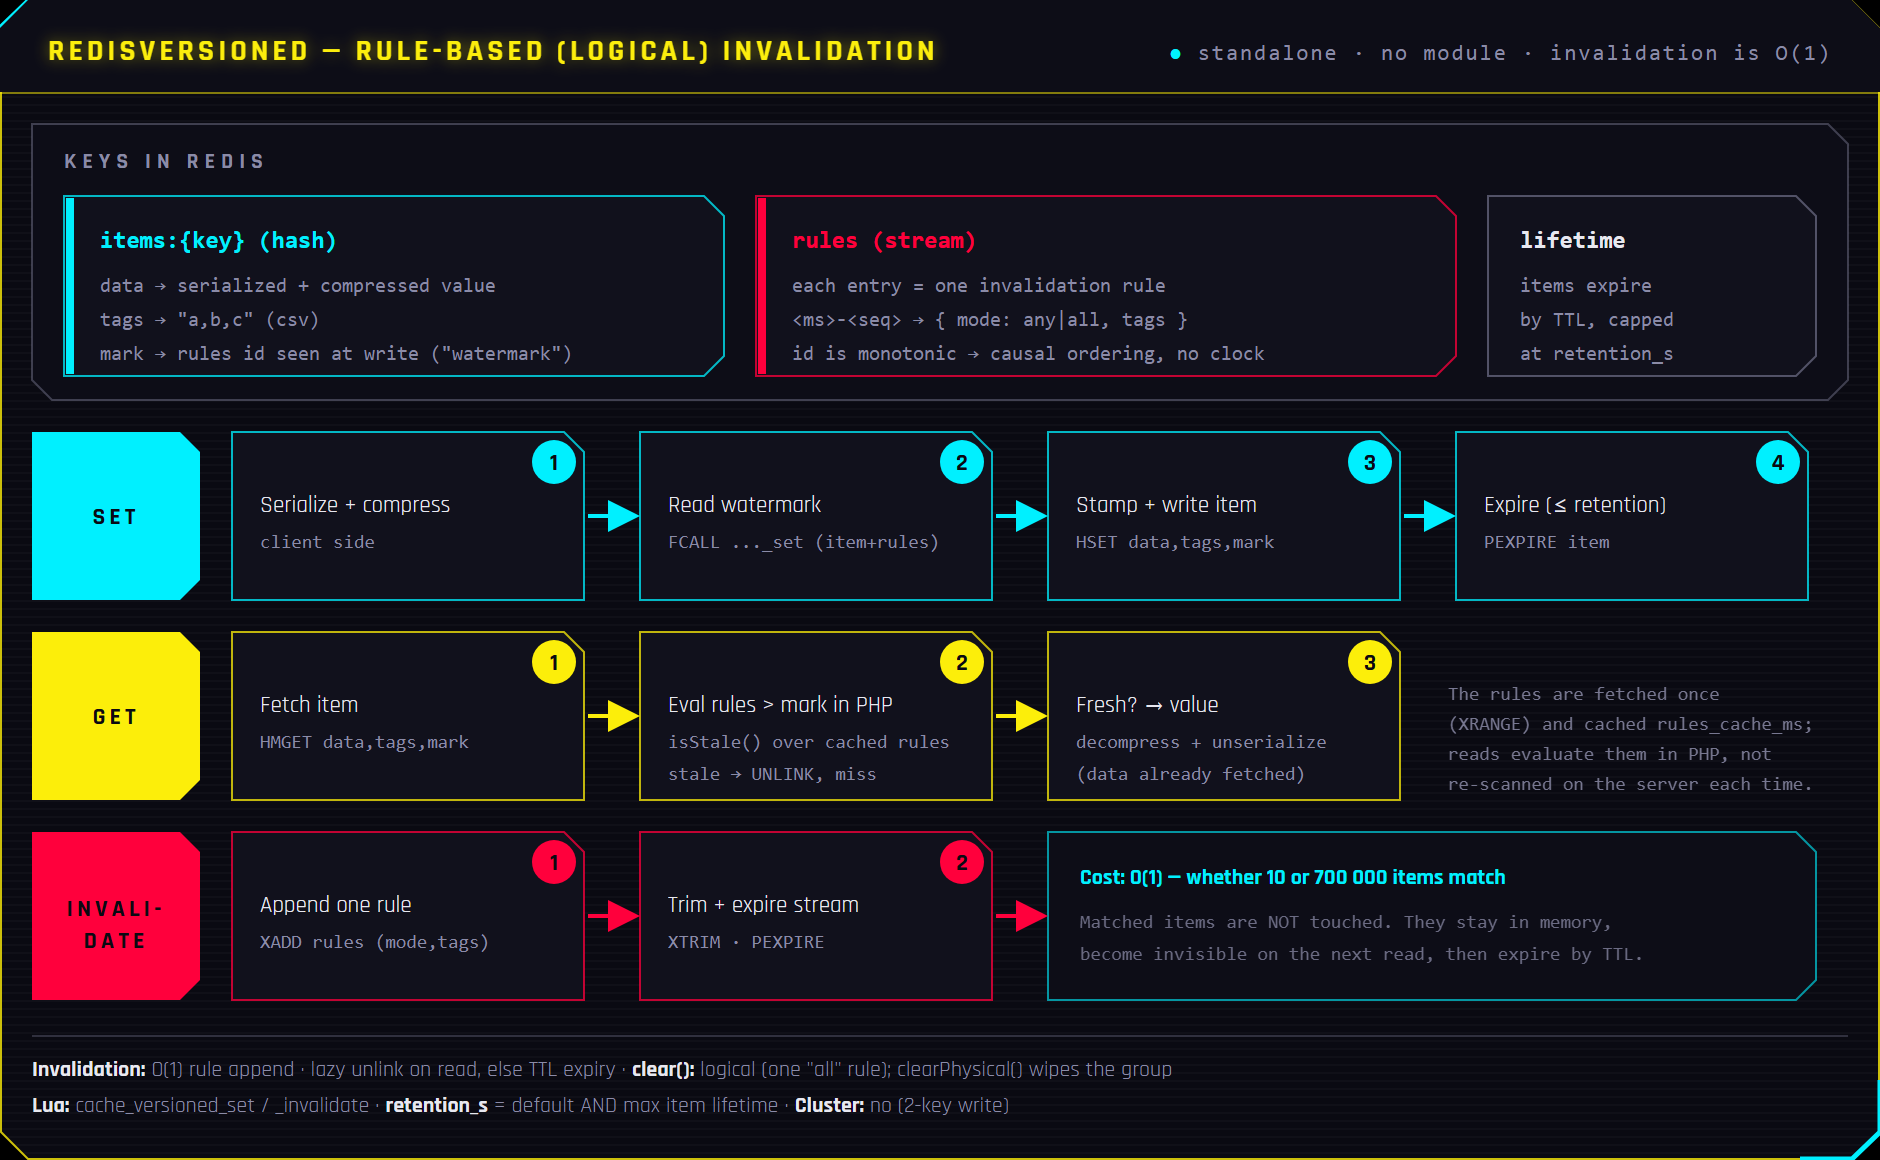
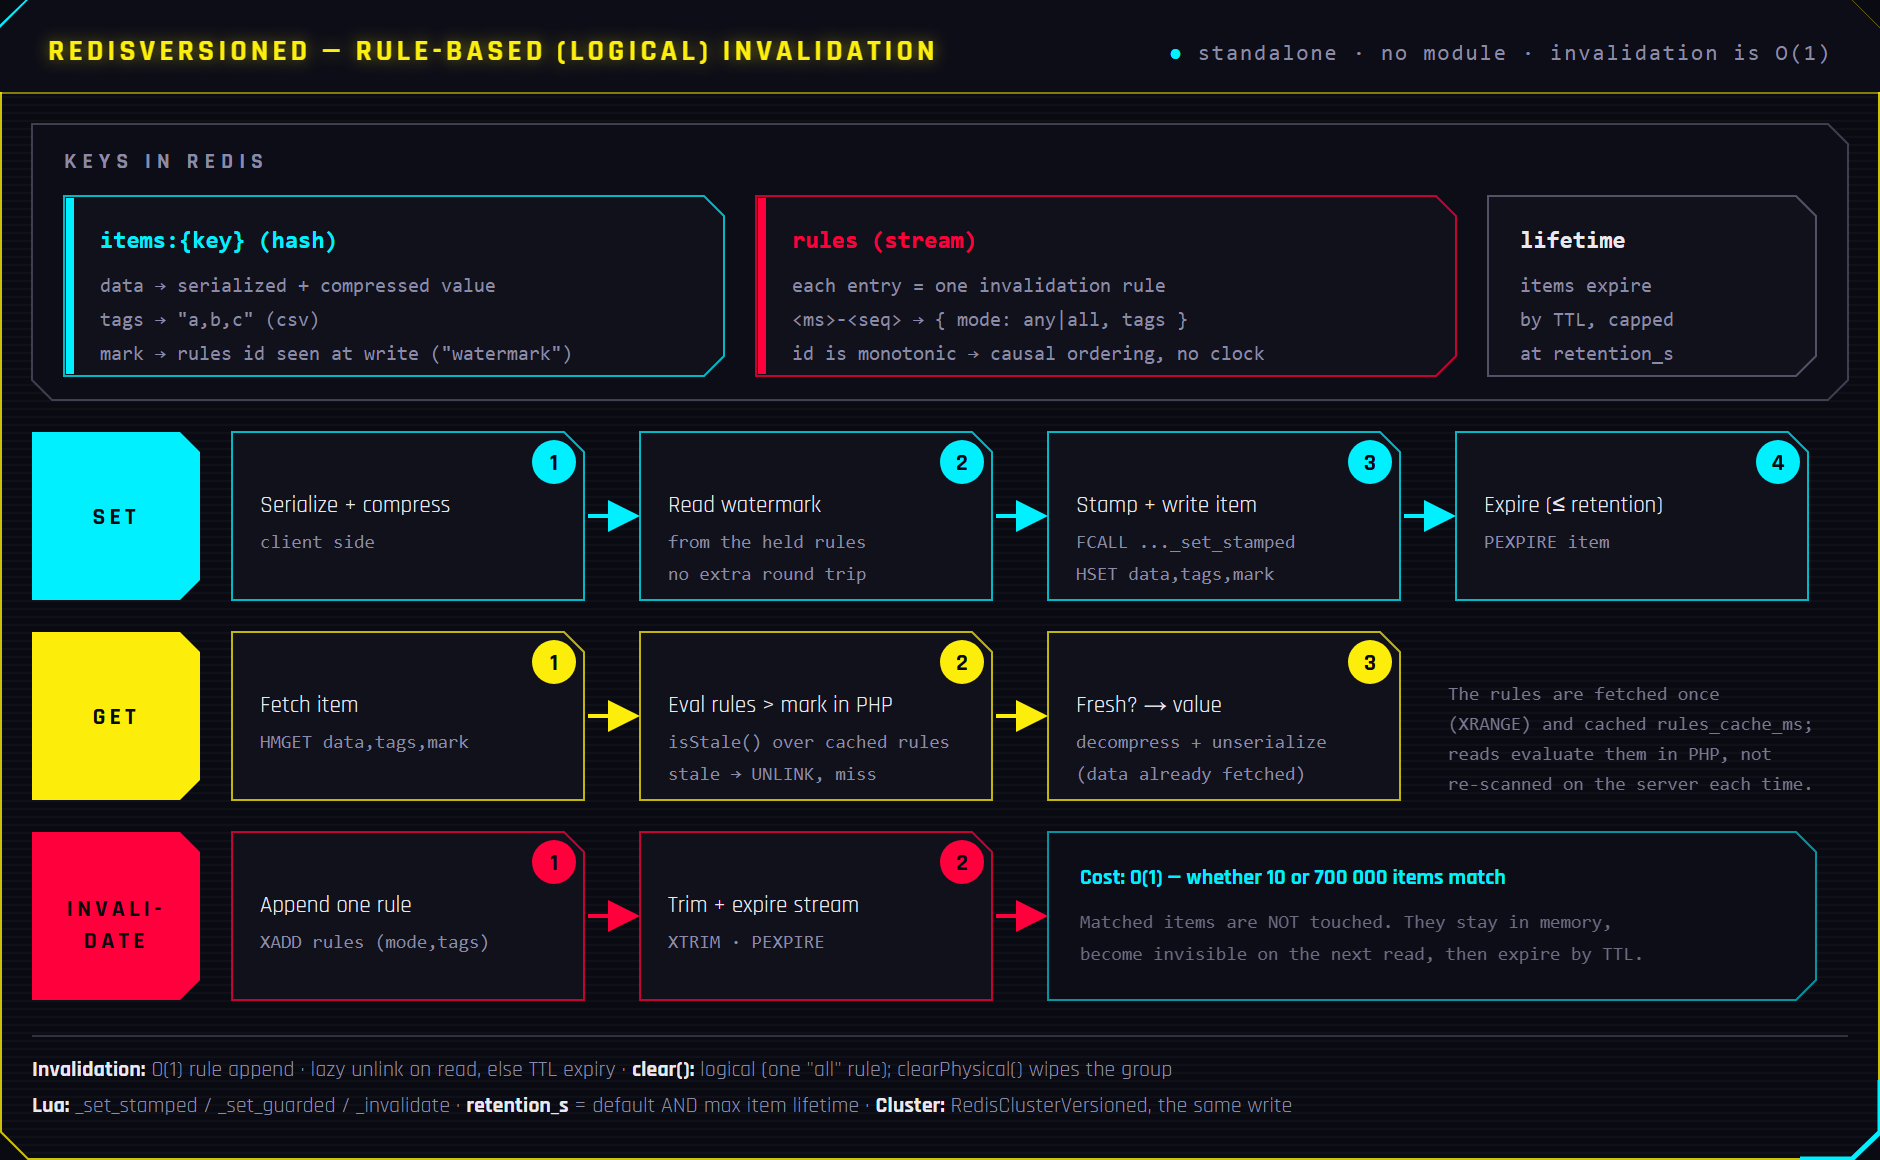
One versioned write: every write that follows no miss is stamped with the watermark its writer holds, never the rules stream's head (cache audit 3, tranche C, S1).
The standalone store wrote through cache_versioned_set, which read the stream's head in the same Lua call (two keys, so the cluster store had its own setCall() with the single-key stamped set); a late miss went through the stamped set with its stamp, a miss through the guarded set. The head can hold rules the writer never held - another server's, appended within its rules_cache_ms - and a value computed before them then counted as having seen them, served for its TTL (audit finding B3). The held rule set's last id, which readers judge every item by, can only judge the item stale sooner: one extra miss. So setCall() takes the mark and always calls cache_versioned_set_stamped: watermark() for a write-through, the late miss's stamp (else watermark()) for a late write. watermark() moved up from RedisClusterVersioned, whose setCall()/watermark() overrides go; missStamp() uses it. CacheVersioned.lua loses cache_versioned_set and cache_versioned_watermark - an older caller during a rolling deploy reloads its own library on "Function not found" and goes on. A standalone write-through now reads the held rules (once per rules_cache_ms, the read path's cache; with 0, one XRANGE delta per write-through, as on a cluster). The class docs, README.CACHE.md and the redis-versioned diagram (SVG + the 2x Rajdhani PNG) say so.
[…]

diff --git a/src/Cache/Store/RedisVersioned.php b/src/Cache/Store/RedisVersioned.php
@@ -48,7 +48,7 @@ use function usleep;
  * longest item TTL in use.
  *
  * Ordering is causal, not clock based: every item is stamped with the
- * rules stream's last entry id at write time (its watermark), and only
+ * rules stream's last entry id its writer holds (its watermark), and only
  * rules with a newer id can invalidate it - no clock comparison happens
  * anywhere (stream ids are generated monotonically by the rules node).
  *
@@ -106,8 +106,8 @@ class RedisVersioned extends Store
 	
 	/**
 	 * How long a fetched rule set may be reused before it is refreshed - the
-	 * read path (and the cluster write watermark) evaluate against this
-	 * held set, a bounded staleness window. Set to 0 to refresh on every
+	 * read path evaluates against this held set, and a write takes its
+	 * watermark from it - a bounded staleness window. Set to 0 to refresh on every
 	 * read (exact, at a round trip each; the refresh is incremental, so it
 	 * carries only what was appended since).
 	 * Unit: milliseconds
@@ -247,22 +247,11 @@ class RedisVersioned extends Store
 			// a miss past the window: its epoch guards nothing any more, but the
 			// watermark it took holds for the rules' retention - written as a
 			// write-through stamped with it, so an invalidation made while it
-			// computed still reaches the value (unstamped: a plain write-through)
+			// computed still reaches the value (unstamped: with the watermark held
+			// now, as any write-through)
 			if($miss !== null && $miss['late'] === true)
 			{
-				$result = $miss['stamp'] === null
-					? $this->setCall($id, $value, $tags, $ttl, $this->writeThroughEpoch(), $soft)
-					: $this->functions
-						->call('cache_versioned_set_stamped', [$id], [
-							$value,
-							implode(',', $tags),
-							$ttl * 1000, // ms
-							$this->rulesRetentionS * 1000, // ms
-							$miss['stamp'],
-							$this->writeThroughEpoch(),
-							$this->invalidationWindowMs,
-							$soft,
-						]);
+				$result = $this->setCall($id, $value, $tags, $ttl, $miss['stamp'] ?? $this->watermark(), $this->writeThroughEpoch(), $soft);
 				
 				return (int)$result === 1;
 			}
@@ -276,7 +265,7 @@ class RedisVersioned extends Store
 				: ($miss['stamp'] ?? $this->missStamp());
 			
 			$result = $mark === null
-				? $this->setCall($id, $value, $tags, $ttl, $miss === null ? $this->writeThroughEpoch() : '', $soft)
+				? $this->setCall($id, $value, $tags, $ttl, $this->watermark(), $miss === null ? $this->writeThroughEpoch() : '', $soft)
 				: $this->functions
 					->call('cache_versioned_set_guarded', [$id], [
 						$value,
@@ -397,28 +386,29 @@ class RedisVersioned extends Store
 	}
 	
 	/**
-	 * The write call: one Lua call reads the current watermark from the
-	 * rules stream and stamps the item with it (two keys - the cluster
-	 * store overrides this with a separate watermark read)
+	 * The write that follows no miss (a write-through, a miss past the
+	 * guard's window): stamped with $mark, the watermark its writer holds -
+	 * never the stream's head, which can hold rules the writer never saw (a
+	 * value computed before them would count as having seen them). One key:
+	 * cluster-safe
 	 */
 	protected function setCall(
 		string $id,
 		string $value,
 		array $tags,
 		int $ttl,
+		string $mark,
 		string $epoch = '', // a write-through's: marks the key (see KeyValue::rememberMiss())
 		string $soft = '', // '1' a soft value, '0' not (see fetch()); '' says nothing
 	): mixed
 	{
 		return $this->functions
-			->call('cache_versioned_set', [
-				$id,
-				$this->getRulesKey(),
-			], [
+			->call('cache_versioned_set_stamped', [$id], [
 				$value,
 				implode(',', $tags),
 				$ttl * 1000, // ms
 				$this->rulesRetentionS * 1000, // ms
+				$mark,
 				$epoch,
 				$this->invalidationWindowMs,
 				$soft,
@@ -453,9 +443,9 @@ class RedisVersioned extends Store
 	}
 	
 	/**
-	 * A miss stamps the rules watermark it saw - the held set's last id (the
-	 * cluster store stamped its writes with it before the guard). It lags the
-	 * stream's head by at most rules_cache_ms, which only judges the item stale
+	 * A miss stamps the rules watermark it saw - the held set's last id (see
+	 * watermark(), what every write is stamped with). It lags the stream's
+	 * head by at most rules_cache_ms, which only judges the item stale
 	 * sooner, never fresh wrongly; and it is consistent with what readers hold:
 	 * the stream's head is not - a reader whose held set is momentarily empty
 	 * (just after a physical clear) takes any real mark for a lost stream and
@@ -469,8 +459,7 @@ class RedisVersioned extends Store
 	{
 		try
 		{
-			return $this->getRules()
-				->last();
+			return $this->watermark();
 		}
 		catch(RedisException|RedisClusterException $exception)
 		{
@@ -478,6 +467,19 @@ class RedisVersioned extends Store
 		}
 		
 		return null;
+	}
+	
+	/**
+	 * The rules stream's last entry id ("<ms>-<seq>", "0-0" when empty) as
+	 * this process holds it (rules_cache_ms) - what readers judge an item by,
+	 * so a write is stamped with it: a rule appended within the window leaves
+	 * it behind, and the item is judged stale sooner - one extra miss, never a
+	 * value served past a rule its writer did not hold
+	 */
+	protected function watermark(): string
+	{
+		return $this->getRules()
+			->last();
 	}
 	
 	/**

diff --git a/src/Cache/Store/RedisClusterVersioned.php b/src/Cache/Store/RedisClusterVersioned.php
@@ -10,18 +10,15 @@ use Override;
 use RedisClusterException;
 use RedisException;
 
-use function implode;
-
 /**
  * RedisClusterVersioned
  *
  * The versioned (rule based) store on a Redis Cluster. The read path is
  * inherited unchanged - both stores fetch the item with one HMGET and
- * evaluate the cached rules in PHP. Only the write differs: the standalone
- * pairs the item and rules keys in one Lua call (two keys, illegal on a
- * cluster), so this store reads the watermark from the cached rules and
- * uses the single-key stamped set instead. Invalidation is inherited
- * untouched (a single-slot FCALL on the rules key).
+ * evaluate the cached rules in PHP - and so is the write: one single-key
+ * stamped set, the watermark taken from the cached rules. Invalidation is
+ * inherited untouched (a single-slot FCALL on the rules key); clearing runs
+ * per master.
  *
  * No RediSearch module is required - the tags live in the item hash.
  *
@@ -49,51 +46,6 @@ class RedisClusterVersioned extends RedisVersioned
 	public function getConnection(): ClusterConnection
 	{
 		return $this->connection;
-	}
-	
-	/**
-	 * cache_versioned_set reads the watermark from the rules stream in the
-	 * same call (two keys - illegal on a cluster). Pass the watermark into
-	 * the single-key stamped variant instead, read from the locally cached
-	 * rules (see watermark()) so a write reuses the read path's cache and
-	 * avoids a separate XREVRANGE round trip.
-	 */
-	#[Override]
-	protected function setCall(
-		string $id,
-		string $value,
-		array $tags,
-		int $ttl,
-		string $epoch = '', // a write-through's: marks the key (see KeyValue::rememberMiss())
-		string $soft = '', // '1' a soft value, '0' not (see RedisVersioned::fetch()); '' says nothing
-	): mixed
-	{
-		return $this->functions
-			->call('cache_versioned_set_stamped', [$id], [
-				$value,
-				implode(',', $tags),
-				$ttl * 1000, // ms
-				$this->rulesRetentionS * 1000, // ms
-				$this->watermark(),
-				$epoch,
-				$this->invalidationWindowMs,
-				$soft,
-			]);
-	}
-	
-	/**
-	 * The rules stream's last entry id ("<ms>-<seq>", "0-0" when empty),
-	 * read from the held rules (rules_cache_ms) instead of a dedicated
-	 * XREVRANGE - the read path already keeps them, so a write batch skips a
-	 * round trip per write. A rule appended within the cache window leaves
-	 * the watermark slightly behind: at worst this item is marked one or two
-	 * rules too old - over-invalidation of a racing write, never stale data
-	 * (the same trade the read cache already makes).
-	 */
-	protected function watermark(): string
-	{
-		return $this->getRules()
-			->last();
 	}
 	
 	/**

diff --git a/tests/Cache/Store/RedisVersioned.php b/tests/Cache/Store/RedisVersioned.php
@@ -435,6 +435,39 @@ class RedisVersioned extends Test
 	}
 	
 	/**
+	 * A write that follows no miss is stamped with the watermark its writer
+	 * holds, never the stream's head: a rule another server appended within
+	 * the writer's rules_cache_ms is one it never held, and a value computed
+	 * before it must not count as having seen it. The writer's own
+	 * invalidation is held at once - its own write after it stays fresh
+	 */
+	public function aWriteThroughIsStampedWithTheRulesItsWriterHolds(): bool
+	{
+		$writer = $this->probe(['rules_cache_ms' => 60000]);
+		$reader = $this->probe(['rules_cache_ms' => 0]);
+		// the writer holds the rule set as it is now
+		$writer->rules();
+		// another server invalidates tag1: straight into the stream, no mark on
+		// this host (an invalidation made here would make the writer refresh)
+		$writer->getClient()
+			->xAdd($writer->getRulesKey(), '*', ['mode' => 'any', 'tags' => 'tag1', 'first' => '0']);
+		$writer->set('item1', 'computed before', tags: ['tag1']);
+		$writer->invalidateTags(['tag2']);
+		$writer->set('item2', 'computed after', tags: ['tag2']);
+		
+		try
+		{
+			return $reader->get('item1', queue: false) === null
+				&& $reader->get('item2', queue: false) === 'computed after';
+		}
+		finally
+		{
+			$writer->delete('item1');
+			$writer->delete('item2');
+		}
+	}
+	
+	/**
 	 * An 'all' rule naming one tag means what an 'any' rule on that tag means:
 	 * it is held per tag (compacted), not in the list every read walks
 	 */

diff --git a/README.CACHE.md b/README.CACHE.md
@@ -176,7 +176,7 @@ lazily unlinks a stale item:
 - The RedisVersioned store on a **Redis Cluster**: same data model and
   semantics; reads evaluate the invalidation rules on the PHP side against
   the same held, shared rule set (`rules_cache_ms`, `rules_shared_cache`),
-  and writes take their watermark from it instead of a round trip.
+  and writes take their watermark from it, as on a standalone server.
 - Requires a `redis_cluster` connection (a `seeds` list) plus a standalone
   queue connection **pointed at a node of the same cluster** for MemoLock
   pub/sub (see the configuration reference below).
